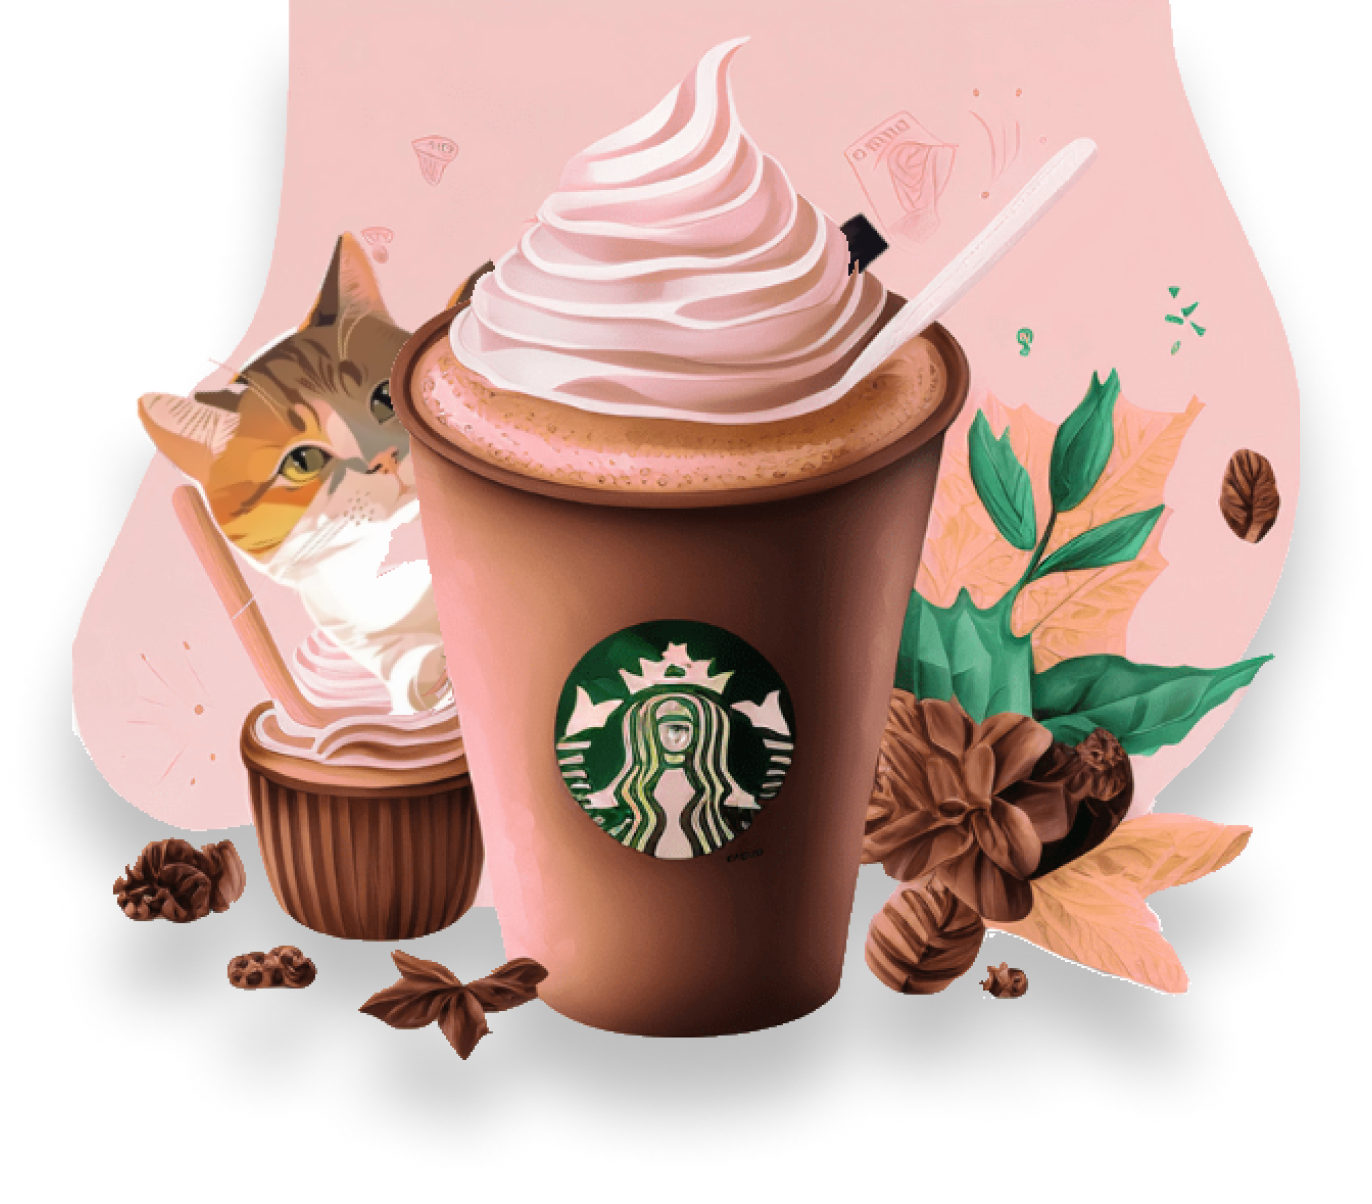
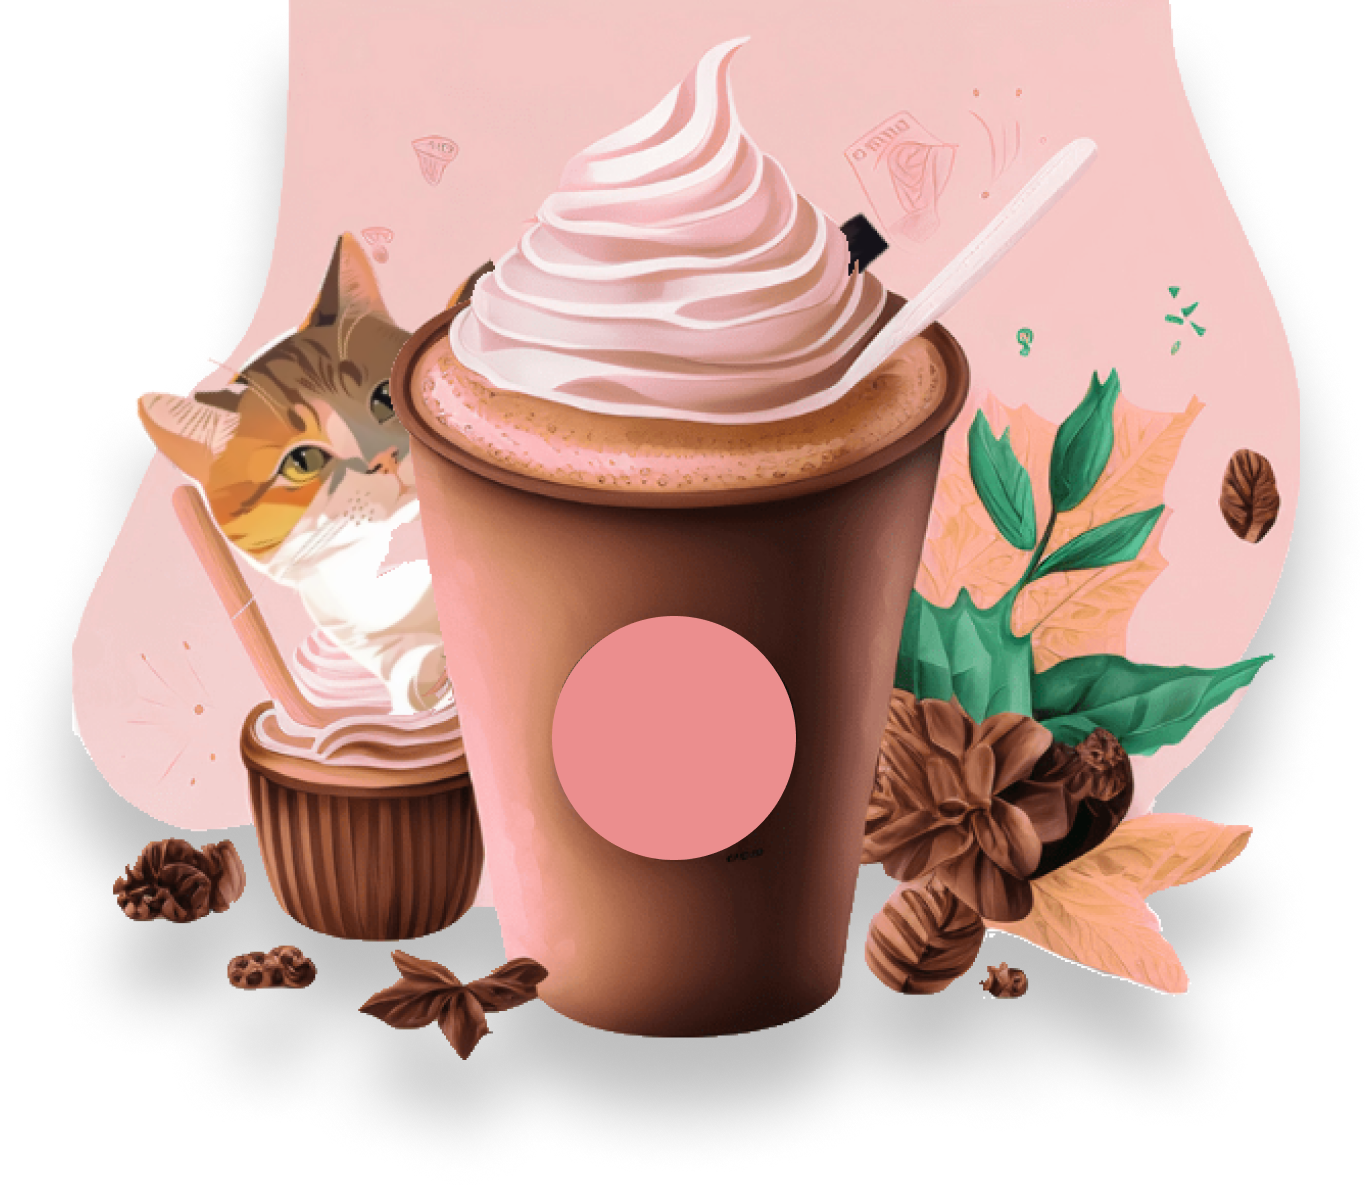
Add section Coffes
Adicionado a seção de cafés/drinks, ainda está em construção e não finalizada. faltando terminar de aplicar os estilos e deixar responsivo.

Changed region(s): [[0.398, 0.4917, 0.5816, 0.7375]]

diff --git a/index.html b/index.html
@@ -30,8 +30,8 @@
             <span class="menu-line"></span>
             <span class="menu-line"></span>
           </div>
-          <img class="image-header-desktop" src="./images/image-header.png" alt="Um copo de bebida com chantilly, decorado com o logotipo da Starbucks, ao lado de um gato curioso espiando de dentro de um segundo copo. Ao redor, há folhas verdes e grãos de café em um fundo rosa.">
-          <img class="image-header-mobile" src="./images/image-header-mobile.png" alt="Um copo de bebida com chantilly, decorado com o logotipo da Starbucks, ao lado de um gato curioso espiando de dentro de um segundo copo. Ao redor, há folhas verdes e grãos de café em um fundo rosa.">
+          <img class="image-header-desktop" src="./images/image-header.png" alt="Um copo de bebida com chantilly em um fundo rosa, sem logotipo visível, ao lado de um gato curioso espiando de dentro de outro copo. Ao redor, há folhas verdes, grãos de café e estrelas desenhadas, criando uma atmosfera aconchegante.">
+          <img class="image-header-mobile" src="./images/image-header-mobile.png" alt="Um copo de bebida com chantilly em um fundo rosa, sem logotipo visível, ao lado de um gato curioso espiando de dentro de outro copo. Ao redor, há folhas verdes, grãos de café e estrelas desenhadas, criando uma atmosfera aconchegante.">
         </ul>
         <ul class="navbar-menu-mobile">
           <li class="active">Início</li>
@@ -48,7 +48,44 @@
         </div>
       </div>
     </header>
-    <div class="overlay"></div>
+    <main>
+      <section id="coffees">
+        <div class="coffees-text-content container">
+          <h2>Cafés</h2>
+          <p>Conheça nossos cafés exclusivos pensados e preparados por nossos baristas renomados.</p>
+          <a href="#">Veja todos ></a>
+        </div>
+        <div class="coffees-cards-content container">
+          <div class="coffee-card">
+            <img src="./images/capuccino.png" alt="Um copo de vidro transparente com um cappuccino em camadas, mostrando o contraste entre o café, o leite vaporizado e a espuma cremosa no topo.">
+            <div class="coffee-card-text">
+            <span class="coffee-card-price">R$ 24,00</span>
+            <h3 class="coffee-card-title">Capuccino</h3>
+            <p class="coffee-card-desc">Café expresso , leite vaporizado, espuma e um toque de caramelo.</p>
+            </div>
+            <button class="coffee-card-btn">Delivery</button>
+          </div>
+          <div class="coffee-card">
+            <img src="./images/coffee-with-milk.png" alt="">
+            <div class="coffee-card-text">
+            <span class="coffee-card-price">R$ 16,00</span>
+            <h3 class="coffee-card-title">Café ao Leite</h3>
+            <p class="coffee-card-desc">O clássico, amado pelos brasileiros, com um toque de sofisticação!</p>
+            </div>
+            <button class="coffee-card-btn">Delivery</button>
+          </div>
+          <div class="coffee-card">
+            <img src="./images/black-coffee.png" alt="Uma xícara preta de café com leite, decorada com arte de coração na espuma, servida em um pires combinando.">
+            <div class="coffee-card-text">
+            <span class="coffee-card-price">R$ 12,00</span>
+            <h3 class="coffee-card-title">Café Preto</h3>
+            <p class="coffee-card-desc">Grãos selecionados feitos no seu método de preparo favorito.  </p>
+            </div>
+            <button class="coffee-card-btn">Delivery</button>
+          </div>
+        </div>
+      </section>
+    </main>
     <script src="./main.js"></script>
   </body>
 </html>

diff --git a/style.css b/style.css
@@ -15,9 +15,6 @@
 }
 
 body {
-  width: 100vw;
-  height: 100vh;
-  overflow: hidden;
   background-color: var(--bg-color);
 }
 
@@ -463,4 +460,86 @@ header .container {
     top: 0;
     right: -50px;
   }
+}
+
+/* Sessão dos cafés/driks */
+#coffees {
+  width: 100%;
+  height: auto;
+  margin-top: 72px;
+  margin-bottom: 72px;
+  border: 1px solid black;
+
+  display: flex;
+  flex-direction: column;
+  gap: 30px;
+}
+.coffees-text-content {
+  max-width: 544px;
+  text-align: center;
+  color: var(--headings-color);
+  display: flex;
+  flex-direction: column;
+  gap: 20px;
+
+  border: 1px solid black;
+}
+
+.coffees-text-content h2 {
+  margin: auto;
+  width: max-content;
+  font-size: 40px;
+  font-weight: 600;
+  line-height: 130%;
+}
+
+h2::after {
+    content: "";
+    display: block;
+    width: calc(100% - 50px); 
+    border-bottom: 1px solid var(--headings-color);
+    margin: auto;
+}
+
+.coffees-text-content a {
+  text-decoration: none;
+  color: var(--headings-color);
+  font-weight: 600;
+}
+
+.coffees-cards-content {
+  border: 1px solid black;
+  height: auto;
+  display: flex;
+  justify-content: center;
+  gap: 50px;
+}
+
+.coffees-cards-content .coffee-card:nth-child(1) {
+  background: linear-gradient(to bottom left, #F6C7C5 0%, #C27D7A 100%);
+}
+
+.coffee-card {
+  border: 1px solid black;
+  padding: 15px;
+  text-align: center;
+  width: 320px;
+  display: flex;
+  flex-direction: column;
+
+  border-radius: 48px;
+}
+
+.coffee-card-price {
+  font-weight: 600;
+  font-size: 20px;
+}
+
+.coffee-card-title {
+  font-size: 32px;
+  font-weight: 600;
+}
+
+.coffee-card-desc {
+  font-size: 14px;
 }
